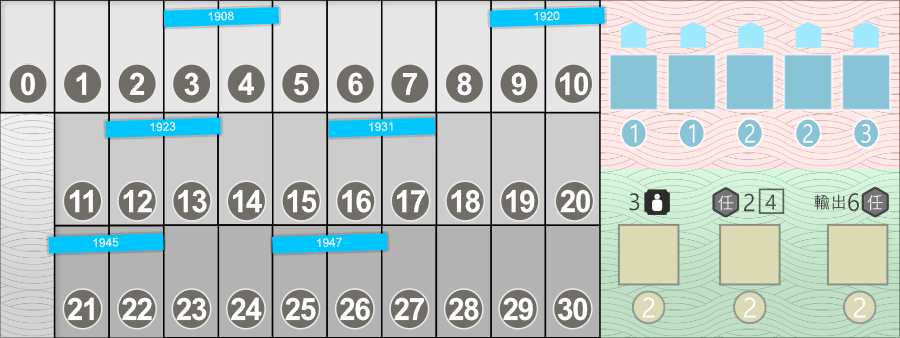
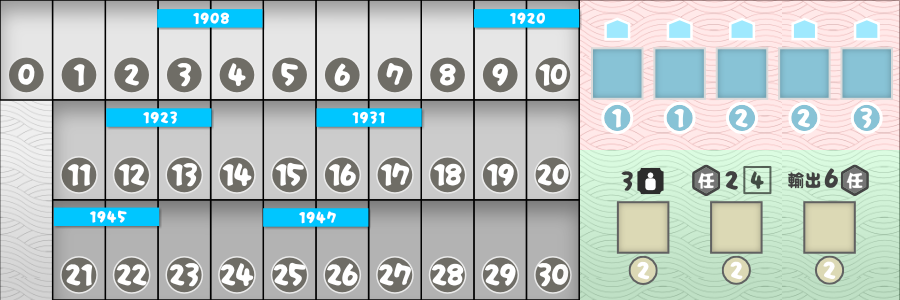
Update scores-goals-rest.png and remove .card, .tapped in css

diff --git a/app/assets/stylesheets/sprites.css b/app/assets/stylesheets/sprites.css
@@ -2,98 +2,113 @@
   background: no-repeat center url('/eirakuchotori-resources.png');
 }
 
-.card {
-  background-size: 1680px;
-}
-
 #street-1 {
+  background-size: 1680px;
   background-position: -0px 0px;
 }
 
 #street-2 {
+  background-size: 1680px;
   background-position: -120px 0px;
 }
 
 #street-3 {
+  background-size: 1680px;
   background-position: -240px 0px;
 }
 
 #street-4 {
+  background-size: 1680px;
   background-position: -360px 0px;
 }
 
 #street-5 {
+  background-size: 1680px;
   background-position: -480px 0px;
 }
 
 #street-6 {
+  background-size: 1680px;
   background-position: -600px 0px;
 }
 
 #street-7 {
+  background-size: 1680px;
   background-position: -720px 0px;
 }
 
 #street-8 {
+  background-size: 1680px;
   background-position: -840px 0px;
 }
 
 #street-9 {
+  background-size: 1680px;
   background-position: -960px 0px;
 }
 
 #street-10 {
+  background-size: 1680px;
   background-position: -1080px 0px;
 }
 
 #street-11 {
+  background-size: 1680px;
   background-position: -1200px 0px;
 }
 
 #street-12 {
+  background-size: 1680px;
   background-position: -1320px 0px;
 }
 
 #street-13 {
+  background-size: 1680px;
   background-position: -1440px 0px;
 }
 
 #street-14 {
+  background-size: 1680px;
   background-position: -1560px 0px;
 }
 
 #event-1908 {
+  background-size: 1680px;
   background-position: -0px -182px;
 }
 
 #event-1920 {
+  background-size: 1680px;
   background-position: -120px -182px;
 }
 
 #event-1923 {
+  background-size: 1680px;
   background-position: -240px -182px;
 }
 
 #event-1931 {
+  background-size: 1680px;
   background-position: -360px -182px;
 }
 
 #event-1945 {
+  background-size: 1680px;
   background-position: -480px -182px;
 }
 
 #event-1947 {
+  background-size: 1680px;
   background-position: -600px -182px;
 }
 
-.tapped {
-  background-size: 2291px;
-}
-
 #warehouse-1, #warehouse-2 {
+  background-size: 2291px;
   background-position: -207px -496px;
 }
 
 #scores-goals-rest {
-  background-position: 0px -2152px;
+  background-size: 4970px;
+  background-position: 0px -1076px;
 }
+
